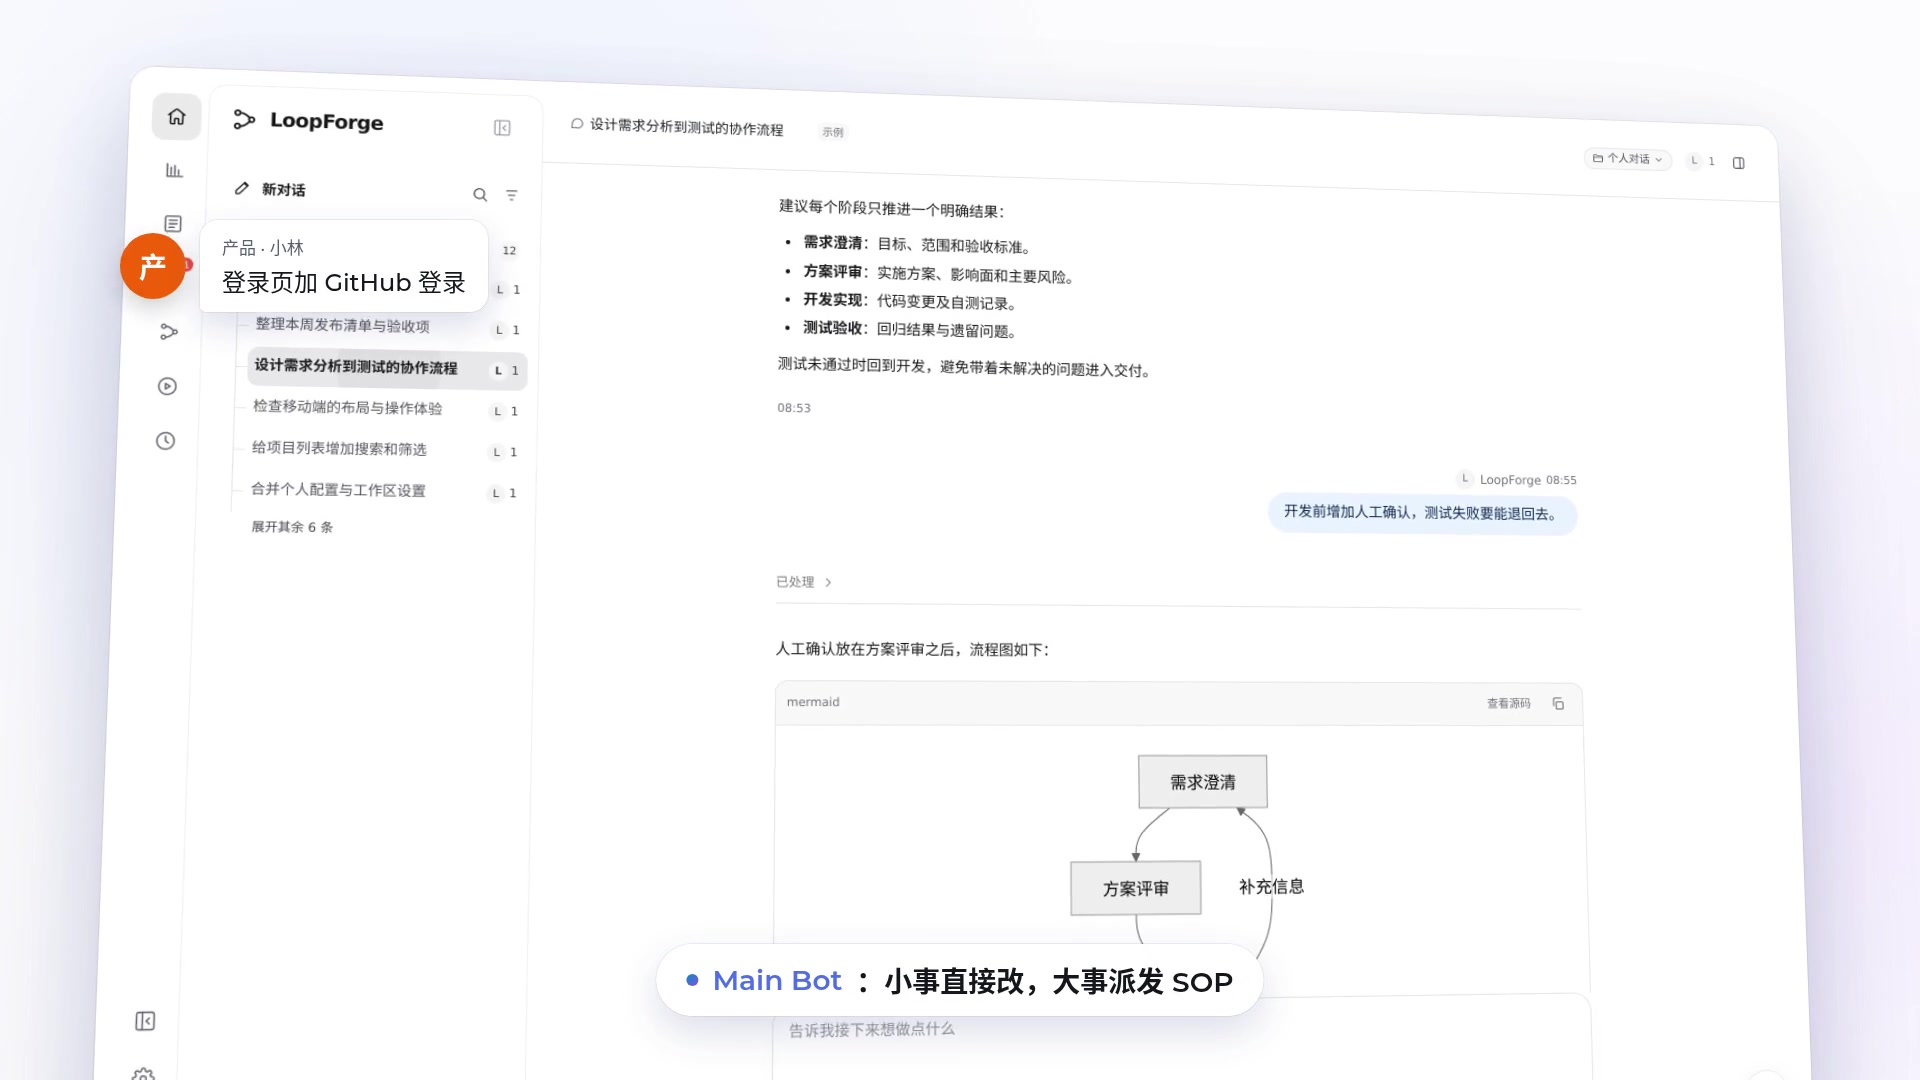
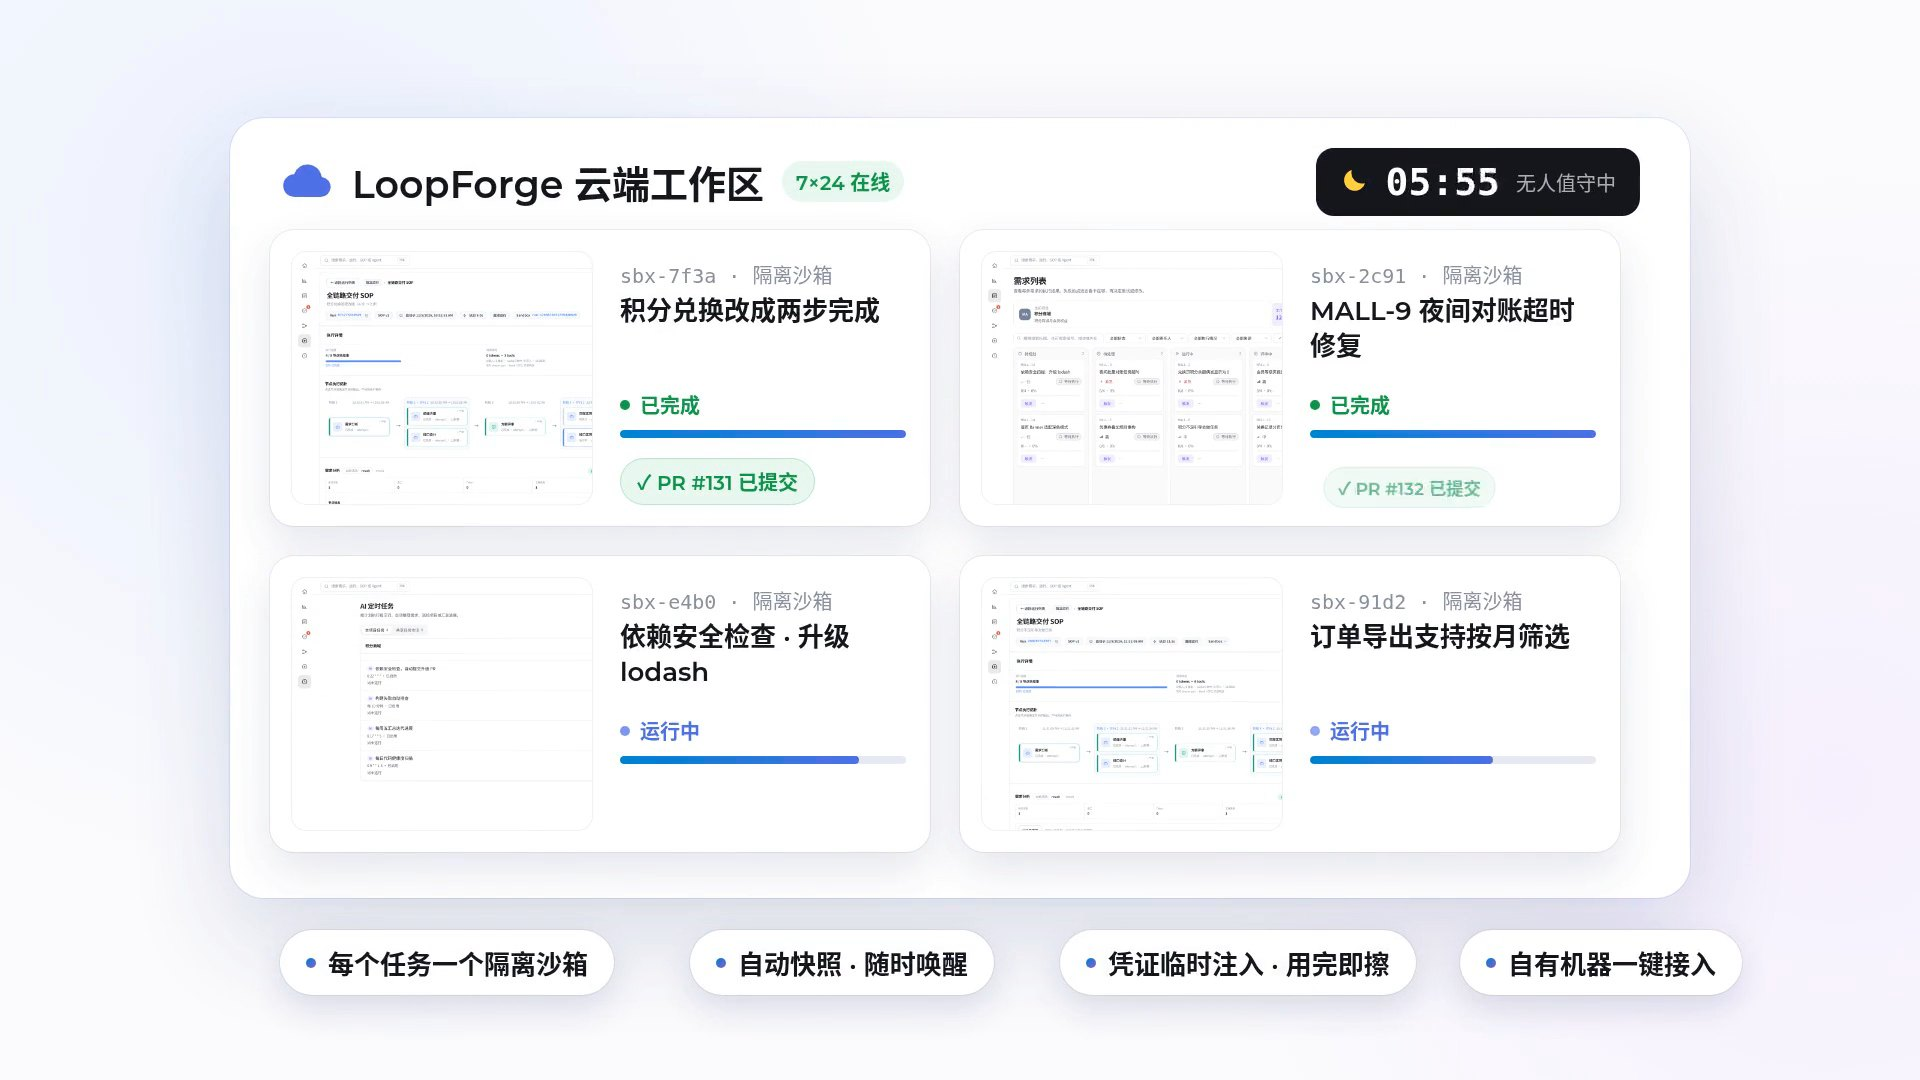
Use a flat, head-on frame as the promo video poster

diff --git a/site/flow.js b/site/flow.js
@@ -194,7 +194,7 @@ function build(){const t=T[L];document.documentElement.lang=L==='zh'?'zh-CN':'en
   ${STEPS.map(([k,fn,icn],i)=>`<article class="stp u" data-u="${k}"><header class="sth"><span class="stn rv" data-at=".02">${String(i+1).padStart(2,'0')}</span><div class="stt"><span class="kick">${ic(icn)}${t.story.marks[i]}</span>${head({h:t[k].h,em:t[k].em},'h3')}</div><p class="sub rv" data-at=".14">${t[k].sub}</p></header>
    <div class="stage">${fn(t)}<button class="rp" type="button">${ic('loop')}${t.replay}</button></div></article>`).join('')}</section>
  <section class="video wrap" id="video"><div class="sec-h u" data-u="head"><span class="kick">${ic('play')}${Z('实机演示','Walkthrough')}</span>${head(t.video)}</div>
-  <div class="vframe"><video preload="none" playsinline poster="demo/media/loopforge-promo.jpg?v=11" src="demo/media/loopforge-promo.mp4?v=11"></video>
+  <div class="vframe"><video preload="none" playsinline poster="demo/media/loopforge-promo.jpg?v=12" src="demo/media/loopforge-promo.mp4?v=12"></video>
   <button class="play" type="button"><i>${PLAY}</i><span>${t.video.play}</span></button></div>
   <div class="vfoot"><a class="btn-t" href="${TRY()}">${t.video.cta}${arrow}</a></div></section>
  <section class="deploy wrap u" id="deploy" data-u="install">${install(t)}</section>

diff --git a/demo/index.html b/demo/index.html
@@ -10,14 +10,14 @@
 <meta property="og:title" content="LoopForge · 演示视频">
 <meta property="og:type" content="video.other">
 <meta property="og:url" content="https://loopforge.cn/demo/">
-<meta property="og:image" content="https://loopforge.cn/demo/media/loopforge-promo.jpg?v=11">
+<meta property="og:image" content="https://loopforge.cn/demo/media/loopforge-promo.jpg?v=12">
 <link rel="icon" type="image/svg+xml" href="../favicon.svg">
 <link rel="preload" href="../site/fonts/inter-tight-latin-wght-normal.woff2" as="font" type="font/woff2" crossorigin>
-<link rel="stylesheet" href="demo.css?v=4">
-<script defer src="demo.js?v=4"></script>
+<link rel="stylesheet" href="demo.css?v=5">
+<script defer src="demo.js?v=5"></script>
 </head>
 <body>
 <div id="app"></div>
-<noscript><video src="media/loopforge-promo.mp4?v=11" poster="media/loopforge-promo.jpg?v=11" controls playsinline class="ns"></video></noscript>
+<noscript><video src="media/loopforge-promo.mp4?v=12" poster="media/loopforge-promo.jpg?v=12" controls playsinline class="ns"></video></noscript>
 </body>
 </html>

diff --git a/demo/demo.js b/demo/demo.js
@@ -3,7 +3,7 @@
 const qs=new URLSearchParams(location.search);
 let L=qs.get('lang')||localStorage.getItem('lf-lang')||((navigator.language||'').startsWith('zh')?'zh':'en');if(L!=='zh'&&L!=='en')L='zh';
 const Z=(a,b)=>L==='zh'?a:b;
-const SRC='media/loopforge-promo.mp4?v=11',POSTER='media/loopforge-promo.jpg?v=11',GH='https://github.com/Tencent/LoopForge';
+const SRC='media/loopforge-promo.mp4?v=12',POSTER='media/loopforge-promo.jpg?v=12',GH='https://github.com/Tencent/LoopForge';
 let lgN=0;
 const LOGO=()=>{const g='lfg'+(++lgN);return `<svg viewBox="12 12 88 88" fill="none" aria-hidden="true"><defs><linearGradient id="${g}" x1="19" y1="20" x2="93" y2="93" gradientUnits="userSpaceOnUse"><stop stop-color="#008DCC"/><stop offset=".48" stop-color="#526CE8"/><stop offset="1" stop-color="#8A4ED9"/></linearGradient></defs><path d="M53 72C53 59 63 52.5 73 52.5S93 59 93 72 83 91.5 73 91.5 53 85 53 72V40C53 27 44.5 20.5 36 20.5S19 27 19 40" stroke="url(#${g})" stroke-width="7.6" stroke-linecap="round" stroke-linejoin="round"/></svg>`};
 const I={

diff --git a/index.html b/index.html
@@ -5,8 +5,8 @@
 <meta property="og:type" content="website"><meta property="og:url" content="https://loopforge.cn/">
 <meta name="referrer" content="no-referrer"><link rel="icon" type="image/svg+xml" href="favicon.svg">
 <link rel="preload" href="site/fonts/inter-tight-latin-wght-normal.woff2" as="font" type="font/woff2" crossorigin>
-<link rel="stylesheet" href="site/site.css?v=22">
+<link rel="stylesheet" href="site/site.css?v=23">
 </head><body>
 <div id="app"></div>
-<script src="site/content.js?v=22"></script><script src="site/flow.js?v=22"></script>
+<script src="site/content.js?v=23"></script><script src="site/flow.js?v=23"></script>
 </body></html>
